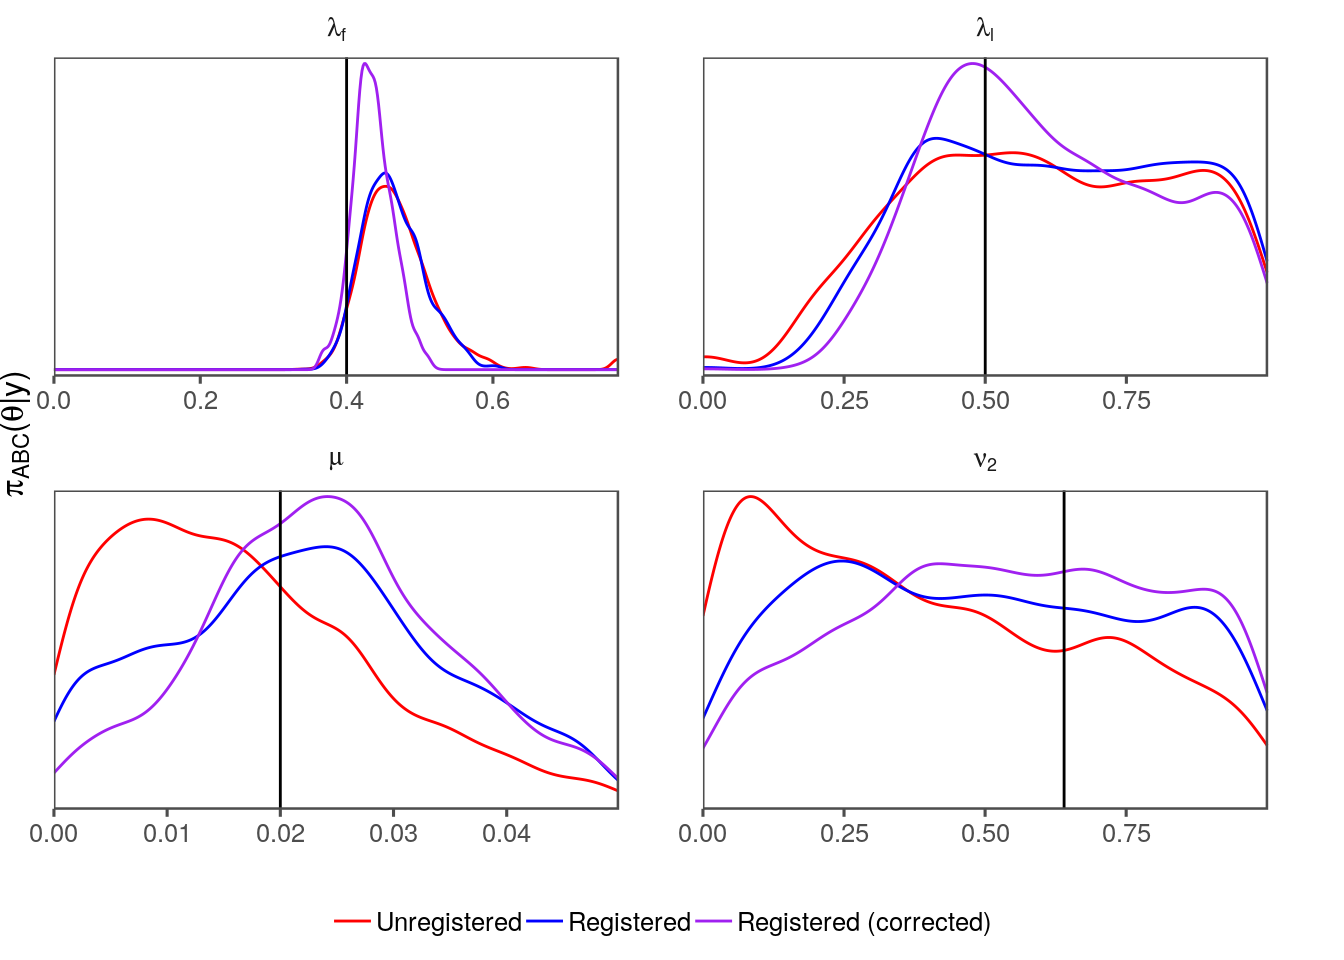
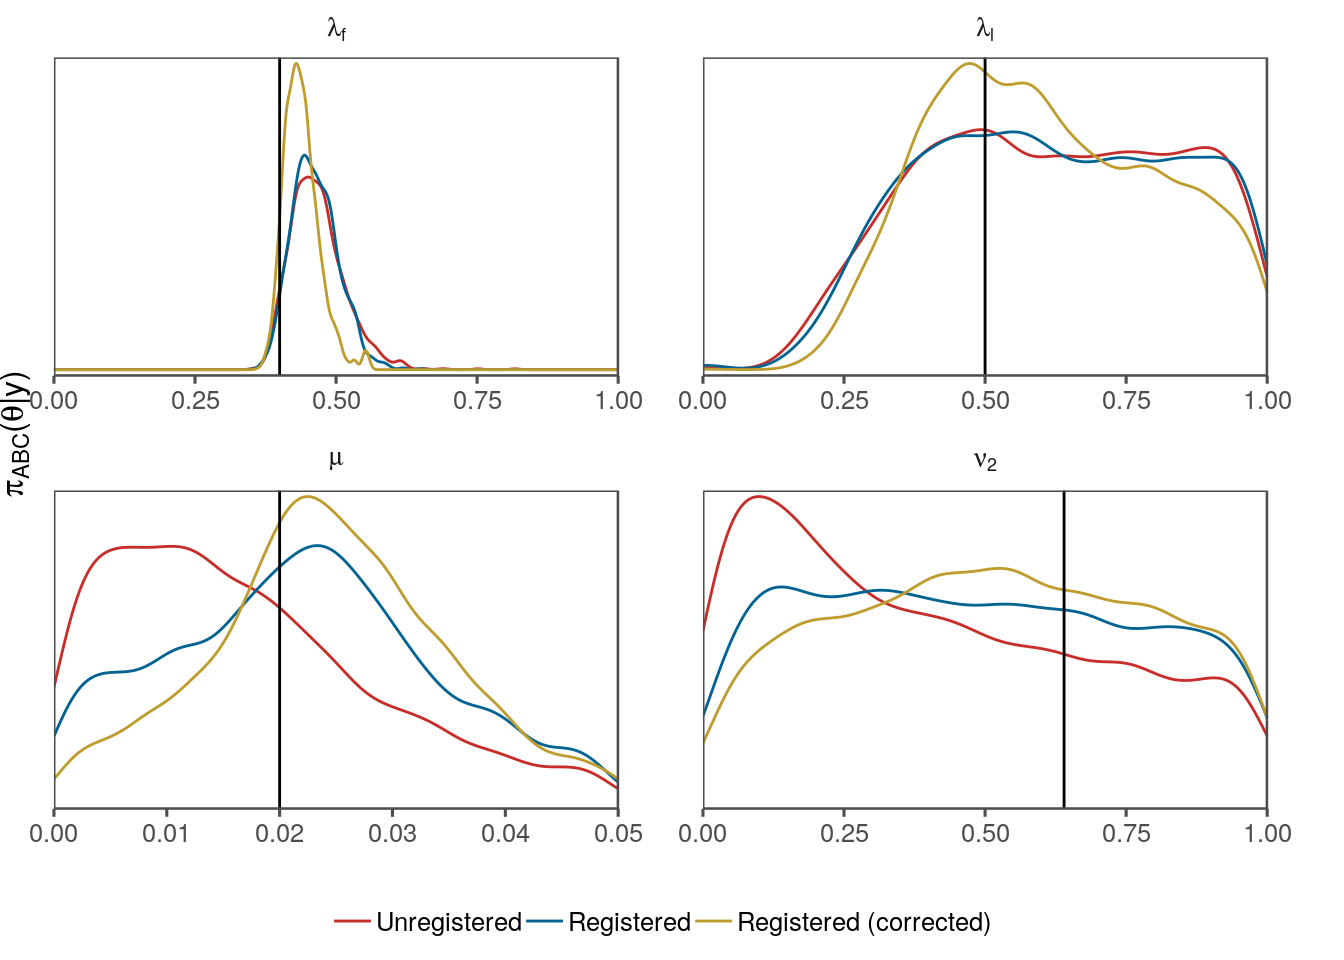
Fix range of x-axis on plots.

diff --git a/docs/main_YSACO7075J.html b/docs/main_YSACO7075J.html
@@ -242,8 +242,8 @@ Hydrograph with associated rain and evaporation data from airGR package
 <h1>References</h1>
 <p>Run-off predictions are positively valued, and it is well known that heteroscedasticity exists in the errors <span class="citation">(Kavetski 2018)</span>. A common strategy is to perform a Box-Cox transformation <span class="math inline">\(Z(Y, \lambda) = (Y^{\lambda} - 1) / \lambda\)</span> to transformed predictions with normalised errors <span class="math inline">\(\eta\)</span>:</p>
 <span class="math display">\[\begin{align}
-    Y_Z &amp;= Z(\mathcal{H}(\theta, X)) + \eta,
-    \eta \sim N(0, \sigma^2)
+    Y_Z &amp;= Z(\mathcal{H}(\theta, X)) + \eta, \\
+    \eta &amp;\sim N(0, \sigma^2)
 \end{align}\]</span>
 <p>We apply the MMD, Registered-MMD and elastic distances as shown previously. Once again we test all three distances.</p>
 <div id="results-and-discussion" class="section level2">
